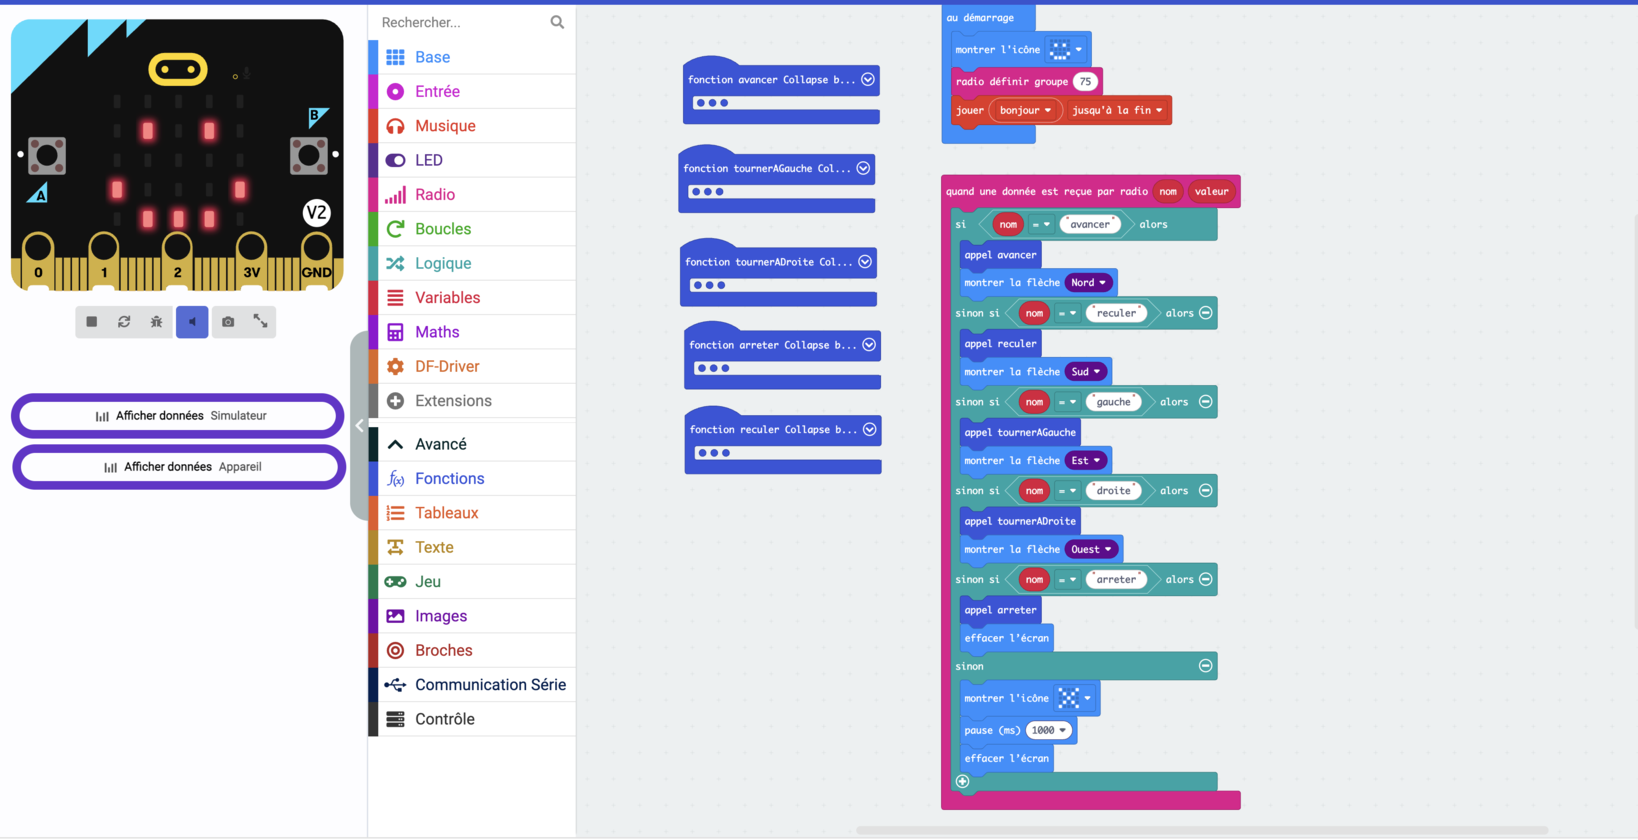
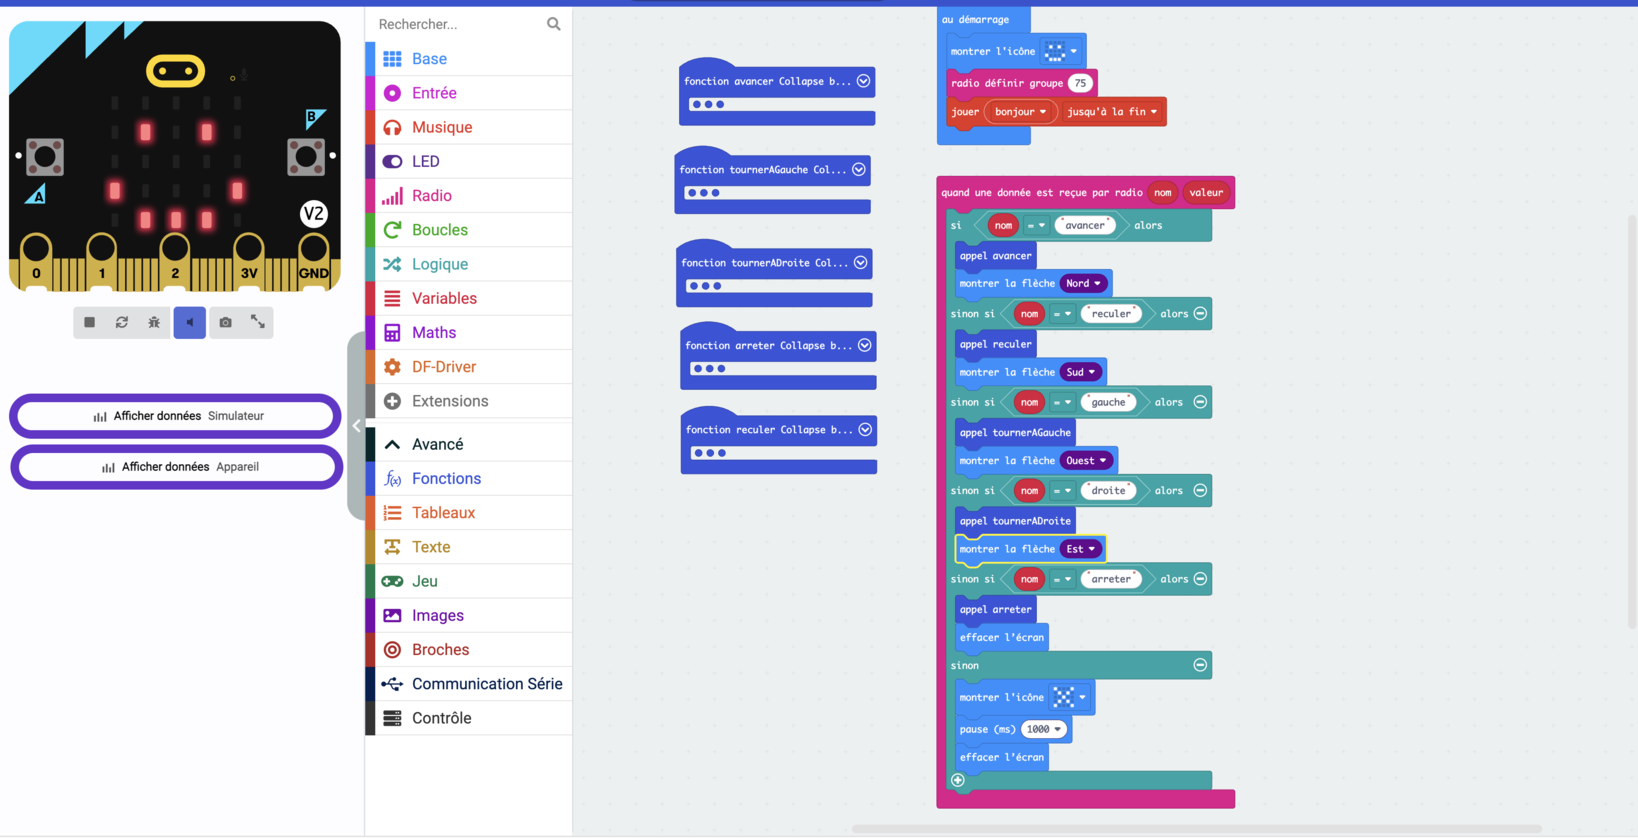
Séance 4 : relecture
Capture du récepteur refaite — les flèches concordent avec la télécommande.

La capture des clés tronquées n'est plus publiée : une image d'un programme
faux induit en erreur qui regarde sans lire. Le piège passe en texte dans la
page et en tableau dans la fiche MakeCode.

Retrait de l'encadré sur le morceau détaché de la photo d'impression : ce
n'était pas un îlot de lettre.

Les élastiques sont déjà sur le rover, la plaque se glisse dessous.
Gestion d'erreur du sinon ajoutée à l'énoncé de l'exercice.
Bonus réordonnés, deux vitesses avant la conversion de plage.

Cahier des charges S5 séparé en deux listes : caractéristiques techniques
vérifiées à l'homologation, et épreuves courues en S12.

Changed region(s): [[0.0, 0.0, 1.0, 0.9607], [0.0934, 0.062, 0.1245, 0.124], [0.7161, 0.7747, 0.7473, 0.8057]]

diff --git a/animation/rover/projet.md b/animation/rover/projet.md
@@ -121,21 +121,24 @@ Le parcours se déroule en deux temps. Pendant les quatre premières séances, c
 
 **Le cahier des charges, remis en séance 5.** Les obstacles et les échantillons sont **présentés physiquement** ce jour-là : un cahier des charges qu'on peut prendre en main se conçoit mieux qu'un cahier des charges lu.
 
-Le rover d'équipe doit :
+Il tient en deux listes, et les deux sont indépendantes. La première dit **ce que le rover doit savoir faire** — c'est ce qui sera vérifié à l'homologation, rover par rover, sans chronomètre ni adversaire. La seconde dit **ce qu'on leur fera courir** en S12 — c'est la compétition, et elle suppose l'homologation acquise.
 
-- être **pilotable à distance par un ou plusieurs opérateurs**
-- **monter une pente** de 5 cm de haut sur 30 cm de long, soit environ **9,5°**
-- **franchir des obstacles ponctuels** de 1 × 1 cm, de largeur supérieure à celle du rover
-- **ramener deux types d'échantillons** : un métallique fin, de quelques millimètres de haut ; un non métallique plus gros, encombrement 4 × 4 × 10 cm
-- **évoluer entre des obstacles**
+**Liste 1 — Caractéristiques techniques (vérifiées à l'homologation, S11)**
 
-Les trois épreuves, à préparer à partir de la S10 et à courir en S12 :
+1. **Pilotage à distance** par un ou plusieurs opérateurs
+2. **Pente** : monter un plan incliné de 5 cm de haut sur 30 cm de long, soit environ **9,5°**
+3. **Obstacle ponctuel** : franchir une barre de 1 × 1 cm de section, plus large que le rover
+4. **Échantillon métallique** : saisir et transporter une pièce fine, quelques millimètres de haut
+5. **Échantillon non métallique** : saisir et transporter un objet de 4 × 4 × 10 cm
+6. **Slalom** : évoluer entre des obstacles sans les toucher
 
-| Épreuve | Forme | Ce qu'elle récompense |
-|---|---|---|
-| Parcours | Chronométré | Vitesse et pilotage |
-| Échantillon non métallique | Capture the flag — premier à le ramener à la base | Préhension du gros objet, stratégie d'équipe |
-| Échantillon métallique | Individuelle — ramener l'échantillon à la base | Captation du petit objet plat |
+**Liste 2 — Épreuves (courues en S12)**
+
+1. **Le parcours**, chronométré — un rover à la fois, le meilleur temps gagne
+2. **Le capture the flag**, avec l'échantillon non métallique — les équipes ensemble sur le terrain, la première à ramener l'objet à sa base gagne
+3. **L'échantillon métallique**, épreuve individuelle — ramener la pièce à la base
+
+Chaque point de la liste 1 est une contrainte de conception. Chaque ligne de la liste 2 est un jeu. Un rover peut être homologué et perdre toutes les épreuves : c'est voulu, et ça se dit aux équipes dès la S5.
 
 ## Séance 6 — Phase 2 — Exploration & création
 
@@ -192,23 +195,21 @@ Les trois épreuves, à préparer à partir de la S10 et à courir en S12 :
 - **La valorisation finale n'est pas confirmée.** Les Jeux, un public, un jury : rien n'est acté. La fiche communication ne promet donc pas d'événement public. À reprendre ici et dans la com dès que c'est tranché.
 - **Ce que chaque jeune emporte** n'est pas décidé : le rover final appartient à une équipe de deux ou trois. Voir la note de [`communication.md`](communication.md).
 
-**Les épreuves — pistes à arbitrer.** Le cahier des charges de la S5 est arrêté ; la forme précise des épreuves ne l'est pas. Deux listes séparées, à prendre ou à laisser indépendamment l'une de l'autre.
+**Pistes à arbitrer.** Rien ci-dessous n'est décidé. Deux listes, à prendre ou à laisser ligne par ligne.
 
-*A — Précisions sur les épreuves déjà décidées. Aucune épreuve nouvelle, seulement une façon de les faire compter.*
+*A — Réglages des épreuves déjà prévues. Aucune épreuve nouvelle : seulement une façon différente de les faire compter.*
 
-| Épreuve | Ce qui change | Pourquoi |
-|---|---|---|
-| La pente | Plan à **angle réglable**. On monte par paliers jusqu'au décrochage, et on note le maximum atteint. | Un seuil unique donne « réussi / raté ». Un maximum donne un classement, et rend visibles l'adhérence et la position du centre de gravité. |
-| Le 1 × 1 cm | Annoncer la **garde au sol comme une cote** dès la S5 : « il faut 10 mm sous le châssis ». | Sinon le pack d'accus finit sous le rover sans que personne y pense, et le défaut se découvre à l'homologation. Le rover des photos a déjà ce défaut. |
-| L'échantillon 4 × 4 × 10 | Le poser **debout**, pas couché. | Couché, il se pousse. Debout, il faut le saisir ou le faire basculer : deux familles de solutions, aucune évidente. |
-| Le parcours entre obstacles | Chronométré **en marche arrière**, ou opérateur dos au parcours et coéquipier qui guide à la voix. | C'est ce qui donne du poids à la ligne « un ou plusieurs opérateurs », au lieu d'une case qu'on coche sans y penser. |
+1. **La pente se juge en maximum atteint, pas en seuil franchi.** Plan à angle réglable, on monte par paliers jusqu'au décrochage et on note l'angle le plus raide tenu. Un seuil unique donne « réussi / raté » ; un maximum donne un classement, et rend visibles l'adhérence et la position du centre de gravité.
+2. **La garde au sol est annoncée comme une cote, dès la S5** : « il faut 10 mm libres sous le châssis ». Sinon le pack d'accus finit sous le rover sans que personne y pense, et le défaut se découvre à l'homologation, trop tard pour reconcevoir. Le rover des photos a déjà ce défaut.
+3. **L'échantillon de 4 × 4 × 10 est posé debout.** Couché, il se pousse jusqu'à la base sans rien saisir. Debout, il faut le prendre ou le faire basculer : deux familles de solutions, aucune évidente.
+4. **Le slalom se court en marche arrière**, ou avec l'opérateur dos au parcours et un coéquipier qui le guide à la voix. C'est ce qui donne du poids à « pilotable par un ou plusieurs opérateurs » : sans ça, la ligne se coche sans avoir rien coûté.
 
-*B — Épreuves supplémentaires, si le temps de la S12 le permet. Elles s'ajoutent aux trois déjà prévues.*
+*B — Épreuves supplémentaires, si la S12 a la place. Elles s'ajouteraient aux trois de la liste 2.*
 
-- **Le transport fragile** — ramener l'échantillon posé sur un plateau non fixé. Sans elle, les trois épreuves récompensent toutes la vitesse ; celle-ci récompense la douceur, et oblige à un vrai arbitrage de conception.
-- **L'échange d'échantillon** — deux rovers de deux équipes doivent se passer l'objet. Suppose que les deux se soient entendus sur une hauteur de préhension. C'est le protocole de la S4, mais mécanique.
+1. **Le transport fragile** — ramener l'échantillon posé sur un plateau non fixé. Les trois épreuves actuelles récompensent toutes la vitesse ; celle-ci récompense la maîtrise, et oblige à un arbitrage réel entre les deux.
+2. **L'échange d'échantillon** — deux rovers de deux équipes différentes doivent se passer l'objet. Ça suppose qu'elles se soient entendues à l'avance sur une hauteur de préhension : c'est le protocole de la séance 4, rejoué en mécanique.
 
-**Une remarque sur l'échantillon métallique.** « Métallique » appelle l'aimant, et l'aimant pose tout de suite la bonne question : un aimant fixe oblige à repousser l'objet jusqu'à la base en marche arrière, un aimant sur bras mobile permet de le lâcher. Le second demande une pièce imprimée — c'est le premier endroit du parcours où l'impression 3D sert le mécanisme et pas la décoration. Ne pas trancher à leur place : la contrainte suffit à faire naître les deux solutions.
+*Une remarque, qui n'est pas une épreuve.* « Métallique » appelle l'aimant, et l'aimant pose tout de suite la bonne question : un aimant fixe oblige à repousser l'objet jusqu'à la base en marche arrière, un aimant sur bras mobile permet de le lâcher. Le second demande une pièce imprimée — c'est le premier endroit du parcours où l'impression 3D sert un mécanisme et plus la décoration. Ne rien trancher à leur place : la contrainte suffit à faire naître les deux solutions.
 
 **Le découpage LP et le rythme réel ne coïncident pas.** Les phases LP sont 1–3 / 4–9 / 10–12 ; le parcours bascule de l'individuel au collectif entre la S4 et la S5. Ce n'est pas un problème — la S4 clôt le rover individuel à l'intérieur de la phase 2 — mais il faut le savoir en lisant le planning.
 

diff --git a/animation/rover/s04.md b/animation/rover/s04.md
@@ -33,7 +33,7 @@ Séance 2 : les cinq fonctions de mouvement dans le projet `rover`. Séance 3 : 
 - Son rover terminé et ses accus chargés
 - Sa seconde carte micro:bit — la télécommande
 - Sa plaque imprimée
-- 2 élastiques pour la fixation de la plaque
+- Élastiques de rechange — ceux du rover servent déjà, la plaque se glisse dessous
 - Bac nominatif
 
 **Commun**
@@ -54,7 +54,7 @@ Séance 2 : les cinq fonctions de mouvement dans le projet `rover`. Séance 3 : 
 
 Remise des plaques, nominative. Chacun regarde la sienne de près : les couches visibles, les lettres, les bords. On fait circuler deux ou trois rebuts du plateau — un îlot tombé, une pièce décollée — et on les relie à la vérification faite en séance 3 : *est-ce que tout tient, est-ce que tout s'imprime ?* Ceux qui ont corrigé leurs contreformes le voient sur leur propre pièce.
 
-**Cinq minutes suffisent, montage compris** : deux élastiques, c'est instantané. Ne pas laisser la discussion s'étirer — le cœur de la séance est ailleurs.
+**Cinq minutes suffisent, montage compris** : les élastiques sont déjà sur le rover, la plaque se glisse dessous. Ne pas laisser la discussion s'étirer — le cœur de la séance est ailleurs.
 
 Annonce du jour : « aujourd'hui, votre rover perd son fil. Mais pour ça, il va falloir que vos deux cartes se mettent d'accord sur une langue. »
 
@@ -73,7 +73,7 @@ Nommer alors la chose : ces deux accords s'appellent un **protocole**. Insister 
 
 Le message porte **une clé** (le mot d'ordre) et **une valeur** (un nombre qui l'accompagne). Construire le tableau au tableau blanc, collectivement : cinq clés, et ce que chacune transporte.
 
-> **La limite des 8 caractères est le moment à ne pas escamoter.** La carte tronque sans prévenir : `tournerAGauche` et `tournerADroite` arrivent tous les deux comme `tournerA`, et le rover tourne toujours du même côté. La panne est muette et le code a l'air juste. C'est sur le montage de test que ça s'est vu — la capture du programme fautif est dans la page élève, en contre-exemple. Faire compter les caractères au tableau avant de valider les cinq clés.
+> **La limite des 8 caractères est le moment à ne pas escamoter.** La carte tronque sans prévenir : `tournerAGauche` et `tournerADroite` arrivent tous les deux comme `tournerA`, et le rover tourne toujours du même côté. La panne est muette et le code a l'air juste. C'est sur le montage de test que ça s'est vu. **Le programme fautif n'est pas montré en image** dans le livre — voir les notes — donc il se montre ici, au tableau : écrire les cinq clés, compter les caractères, valider avant que personne ne code.
 
 **Coder l'émetteur (17 min)** — `radio définir groupe` dans `au démarrage`, puis `envoyer la valeur … par radio` greffé dans chaque branche du programme de la séance 3. La valeur envoyée est la valeur absolue de l'inclinaison.
 
@@ -93,7 +93,7 @@ Retour dans le projet `rover` de la séance 2. **Rien n'y est à refaire** : les
 
 La première branche est donnée sur la page (`si nom = "avancer"` → `appel avancer`), les quatre autres sont à produire. Chaque branche affiche aussi **une flèche** : c'est l'instrument de débogage de la séance, pas une décoration.
 
-Un dernier `sinon` attrape les clés inconnues et affiche une croix. Il n'est pas obligatoire, mais il transforme « rien ne se passe » en « le message est arrivé et je ne l'ai pas compris » — deux pannes très différentes à chercher.
+Un dernier `sinon` attrape les clés inconnues et affiche une croix. **Il fait partie de l'énoncé**, pas des bonus : c'est lui qui transforme « rien ne se passe » en « le message est arrivé et je ne l'ai pas compris ». Deux pannes très différentes, qui ne se cherchent pas au même endroit — et la première leçon de gestion d'erreur du parcours.
 
 > **Point de contrôle animateur** — groupe identique sur les deux cartes, cinq clés strictement identiques des deux côtés (les faire lire à voix haute plutôt que les regarder), bloc de comparaison de **textes**, et une flèche dans chaque branche.
 
@@ -188,9 +188,9 @@ Côté rover, `au démarrage` contient `montrer l'icône`, `radio définir group
 
 ### Ce que les captures ont révélé
 
-**Les clés trop longues.** La capture de 09 h 08 du montage de test porte `tournerAGauche` et `tournerADroite` — tronqués tous les deux à `tournerA`. Elle est publiée telle quelle dans la page élève, **en contre-exemple assumé**, avec la légende qui dit ce qui se passe. C'est le meilleur argument de la séance parce que la panne est invisible : le programme est juste, le rover désobéit. Corrigé en `gauche` / `droite` à 09 h 22.
+**Les clés trop longues.** Le montage de test est passé par `tournerAGauche` et `tournerADroite`, tronqués tous les deux à `tournerA`, avant d'être corrigé en `gauche` / `droite`. **La capture du programme fautif n'est pas publiée** : une image d'un programme faux induit en erreur quiconque regarde sans lire la légende, et sur une page d'atelier beaucoup regardent sans lire. Le piège est porté par le texte de la page élève et par un tableau « ce que tu tapes / ce qui part vraiment » dans la fiche MakeCode. À montrer au tableau en séance, en faisant compter les caractères.
 
-**Les flèches ne concordent pas.** Sur la capture du récepteur complet, `gauche` affiche **Est** et `droite` affiche **Ouest** — l'inverse de la télécommande. Or tout le contrôle visuel de la séance repose sur « les deux écrans montrent la même flèche ». La légende de la solution le dit et demande la correction, ce qui en fait un dernier point de vérification. **Si tu préfères une solution propre, refais cette capture avec les flèches concordantes et supprime la légende** — la ligne à changer est dans la figure de la section 7 de la page élève.
+**Les flèches concordent.** La première capture du récepteur avait `gauche` sur Est et `droite` sur Ouest, l'inverse de la télécommande — ce qui aurait cassé le contrôle visuel de la section 8. Capture refaite, `26-rover-complet.png` est la bonne. Si une capture du récepteur est reprise un jour, c'est le premier point à revérifier.
 
 ### Arbitrages de rédaction
 
@@ -202,6 +202,6 @@ Côté rover, `au démarrage` contient `montrer l'icône`, `radio définir group
 
 ### Médias
 
-Trois photos (impression en cours, plaque sortie, plaque montée) et sept captures dans `docs/assets/rover-s04/`. Les captures 20 et 22 sont **réutilisées par la fiche MakeCode** : les renommer ou les déplacer casserait la fiche.
+Trois photos (impression en cours, plaque sortie, plaque montée) et six captures dans `docs/assets/rover-s04/`. La capture 20 est **réutilisée par la fiche MakeCode** : la renommer ou la déplacer casserait la fiche. La numérotation saute le 22, place laissée libre par la capture des clés tronquées qui n'est pas publiée.
 
-La photo `02-plaque-imprimee.jpg` montre un petit morceau de plastique détaché à côté de la plaque — un îlot de lettre tombé. C'est ce qui justifie l'encadré du lancement et relie la séance à la vérification de la S3. Le montrer plutôt que le raconter.
+Sur `02-plaque-imprimee.jpg`, un petit morceau de plastique traîne à côté de la plaque. Je l'avais pris pour un îlot de lettre tombé et j'en avais fait un encadré ; **c'est faux** — les contreformes avaient été traitées à la conception, en S3. L'encadré est retiré. Le retour sur les ratés d'impression se fait avec de vrais rebuts du plateau, en main, pas avec cette photo.

diff --git a/docs/projets/rover/seances/s04-pilote-a-distance.md b/docs/projets/rover/seances/s04-pilote-a-distance.md
@@ -11,7 +11,7 @@ Tu poses ta plaque imprimée, puis tu construis le protocole qui fait obéir ton
 </figure>
 
 <figure markdown>
-![La plaque bleue terminée sur le plateau, le nom robrov découpé dedans, et un petit morceau de plastique détaché à côté](../../../assets/rover-s04/02-plaque-imprimee.jpg)
+![La plaque bleue terminée sur le plateau de l'imprimante, le nom robrov découpé dedans](../../../assets/rover-s04/02-plaque-imprimee.jpg)
 </figure>
 
 <figure markdown>
@@ -20,10 +20,7 @@ Tu poses ta plaque imprimée, puis tu construis le protocole qui fait obéir ton
 
 </div>
 
-Regarde-la de près avant de la monter : les couches, les lettres, ce qui a bavé. Puis deux élastiques, et elle tient.
-
-> [!NOTE] Le petit morceau à côté
-> C'est l'intérieur d'une lettre que plus rien ne retenait. L'imprimante l'a posé quand même, à plat sur le plateau.
+Regarde-la de près avant de la monter : les couches, les lettres, ce qui a bavé. Puis glisse-la sous les élastiques déjà en place sur ton rover.
 
 ## 2. Deux machines qui ne se sont jamais parlé
 
@@ -32,11 +29,11 @@ Ta télécommande va envoyer des messages, ton rover va les écouter. Pour qu'il
 - **le même groupe** — sinon ils ne s'entendent pas
 - **le même vocabulaire** — sinon ils s'entendent sans se comprendre
 
-Ces deux accords, c'est un **protocole**. Personne ne te le donne : tu l'écris.
+Ces deux accords, c'est un **protocole**. C'est à toi de le définir, avant d'écrire la moindre ligne.
 
 ## 3. Le même groupe
 
-Dans la salle, une douzaine de télécommandes émettent en même temps. Ton groupe, c'est **le numéro de ton ordinateur**.
+Dans la salle, une douzaine de télécommandes émettent en même temps. Pour ne pas piloter le rover du voisin — ni lui le tien — chacun choisit son **groupe**. Le tien, c'est **le numéro de ton ordinateur**.
 
 Dans `au démarrage`, sur **tes deux cartes** :
 
@@ -46,11 +43,11 @@ Dans `au démarrage`, sur **tes deux cartes** :
 </figure>
 
 > [!CAUTION] Le même des deux côtés
-> Une carte sur le groupe 3 n'entend pas une carte sur le groupe 4. Et rien ne te le dira : juste le silence.
+> Une carte sur le groupe 3 n'entend pas une carte sur le groupe 4.
 
 ## 4. Le même vocabulaire
 
-Ouvre `telecommande`. Ton programme sait déjà dans quel sens tu penches — il va maintenant le dire.
+Reste dans `telecommande`. Ton programme sait déjà dans quel sens tu penches — il va maintenant le dire.
 
 Dans la branche qui affiche la flèche Nord, ajoute `envoyer la valeur … par radio` :
 
@@ -61,12 +58,7 @@ Dans la branche qui affiche la flèche Nord, ajoute `envoyer la valeur … par r
 Un message porte **une clé** et **une valeur**. La clé est le mot d'ordre : `avancer`. La valeur est un nombre qui voyage avec — ici, de combien tu penches.
 
 > [!CAUTION] Huit caractères, pas un de plus
-> Au-delà, la carte coupe la clé sans prévenir.
-
-<figure class="screenshot" markdown>
-![Deux branches du programme, l'une envoyant la clé tournerAGauche, l'autre la clé tournerADroite](../../../assets/rover-s04/22-cles-trop-longues.png)
-<figcaption>Ces deux-là arrivent toutes les deux comme <code>tournerA</code>. Le rover tournerait toujours du même côté.</figcaption>
-</figure>
+> Au-delà, la carte coupe la clé sans prévenir. `tournerAGauche` et `tournerADroite` arrivent toutes les deux comme `tournerA` : deux ordres, un seul message.
 
 Prends des clés courtes : `avancer`, `reculer`, `gauche`, `droite`, `arreter`.
 
@@ -107,15 +99,16 @@ Pour comparer deux textes, il te faut le bloc de comparaison à **cases blanches
 
 Ajoute `reculer`, `gauche`, `droite` et `arreter`. Fais afficher **une flèche** dans chaque branche : c'est elle qui te dira que le message est arrivé.
 
+Termine par un `sinon`, tout en bas. Il attrape les clés que ton rover ne connaît pas — une faute de frappe, une clé trop longue, le message d'un voisin. Fais-lui afficher une croix : « j'ai reçu quelque chose, je n'ai pas compris » n'est pas la même panne que « je ne reçois rien », et ça ne se cherche pas au même endroit.
+
 <details markdown>
 <summary>La solution</summary>
 
 <figure class="screenshot" markdown>
 ![Le programme du rover : cinq branches qui comparent nom à chaque clé, appellent la fonction correspondante et affichent une flèche, puis un sinon qui affiche une icône](../../../assets/rover-s04/26-rover-complet.png)
-<figcaption>Deux flèches du milieu sont à corriger : ici <code>gauche</code> affiche Est et <code>droite</code> affiche Ouest. Mets les mêmes que sur ta télécommande.</figcaption>
 </figure>
 
-Le dernier `sinon` attrape les clés que le rover ne connaît pas. Il affiche une croix : tu sauras qu'un message est arrivé et qu'il n'a pas été compris.
+Les flèches sont les mêmes que sur la télécommande, dans le même ordre. C'est ce qui rend le contrôle possible d'un coup d'œil.
 
 </details>
 
@@ -130,9 +123,9 @@ Téléverse les deux programmes, débranche l'USB, passe sur accus.
 
 ## 9. Va plus loin
 
-- **Trop sensible, ou pas assez ?** Une seule sorte de nombre décide de ça, dans ta télécommande. Trouve-la, et change-la.
+- **Trop sensible, ou pas assez ?** Deux nombres décident de ça dans ta télécommande. Trouve lesquels, et dans quel sens les faire varier.
+- **Deux vitesses.** Lente ou rapide, selon un seuil d'inclinaison de plus.
 - **La valeur voyage, et personne ne s'en sert.** Côté rover, `valeur` dit de combien tu penches. Fais-en une vitesse — mais `speed` s'arrête à `255`, et ton inclinaison monte bien plus haut.
-- **Deux vitesses.** Plus simple que la précédente : lente ou rapide, selon un seuil.
 - **Une manœuvre au bouton.** `lorsque le bouton A est pressé` envoie une clé de plus. Côté rover, une branche de plus — et une manœuvre entière qui se déroule toute seule.
 - **Invente ta figure** : demi-tour, créneau, huit. Puis donne-lui un nom de huit caractères.
 

diff --git a/docs/fiches/makecode-prise-en-main.md b/docs/fiches/makecode-prise-en-main.md
@@ -130,12 +130,16 @@ En face, `quand une donnée est reçue par radio` se déclenche tout seul à cha
 On teste alors `nom` pour savoir quoi faire. Attention au bloc de comparaison : il en existe deux, et celui qui compare des **textes** a deux cases blanches. Celui qui compare des nombres ne marchera pas ici.
 
 > [!CAUTION] La clé fait 8 caractères, pas un de plus
-> Au-delà, la carte tronque sans prévenir, et deux clés qui commencent pareil deviennent le même message.
+> Au-delà, la carte tronque sans prévenir.
 
-<figure class="screenshot" markdown>
-![Deux branches d'un programme, l'une envoyant la clé tournerAGauche, l'autre la clé tournerADroite](../assets/rover-s04/22-cles-trop-longues.png)
-<figcaption><code>tournerAGauche</code> et <code>tournerADroite</code> arrivent toutes les deux comme <code>tournerA</code>.</figcaption>
-</figure>
+| Ce que tu tapes | Ce qui part vraiment |
+|---|---|
+| `tournerAGauche` | `tournerA` |
+| `tournerADroite` | `tournerA` |
+| `gauche` | `gauche` |
+| `droite` | `droite` |
+
+Deux clés qui commencent pareil deviennent **le même message**. Le programme est juste, il se relit sans qu'on trouve rien, et le rover désobéit : compte les caractères avant de coder.
 
 ### Se mettre d'accord avant de coder
 
